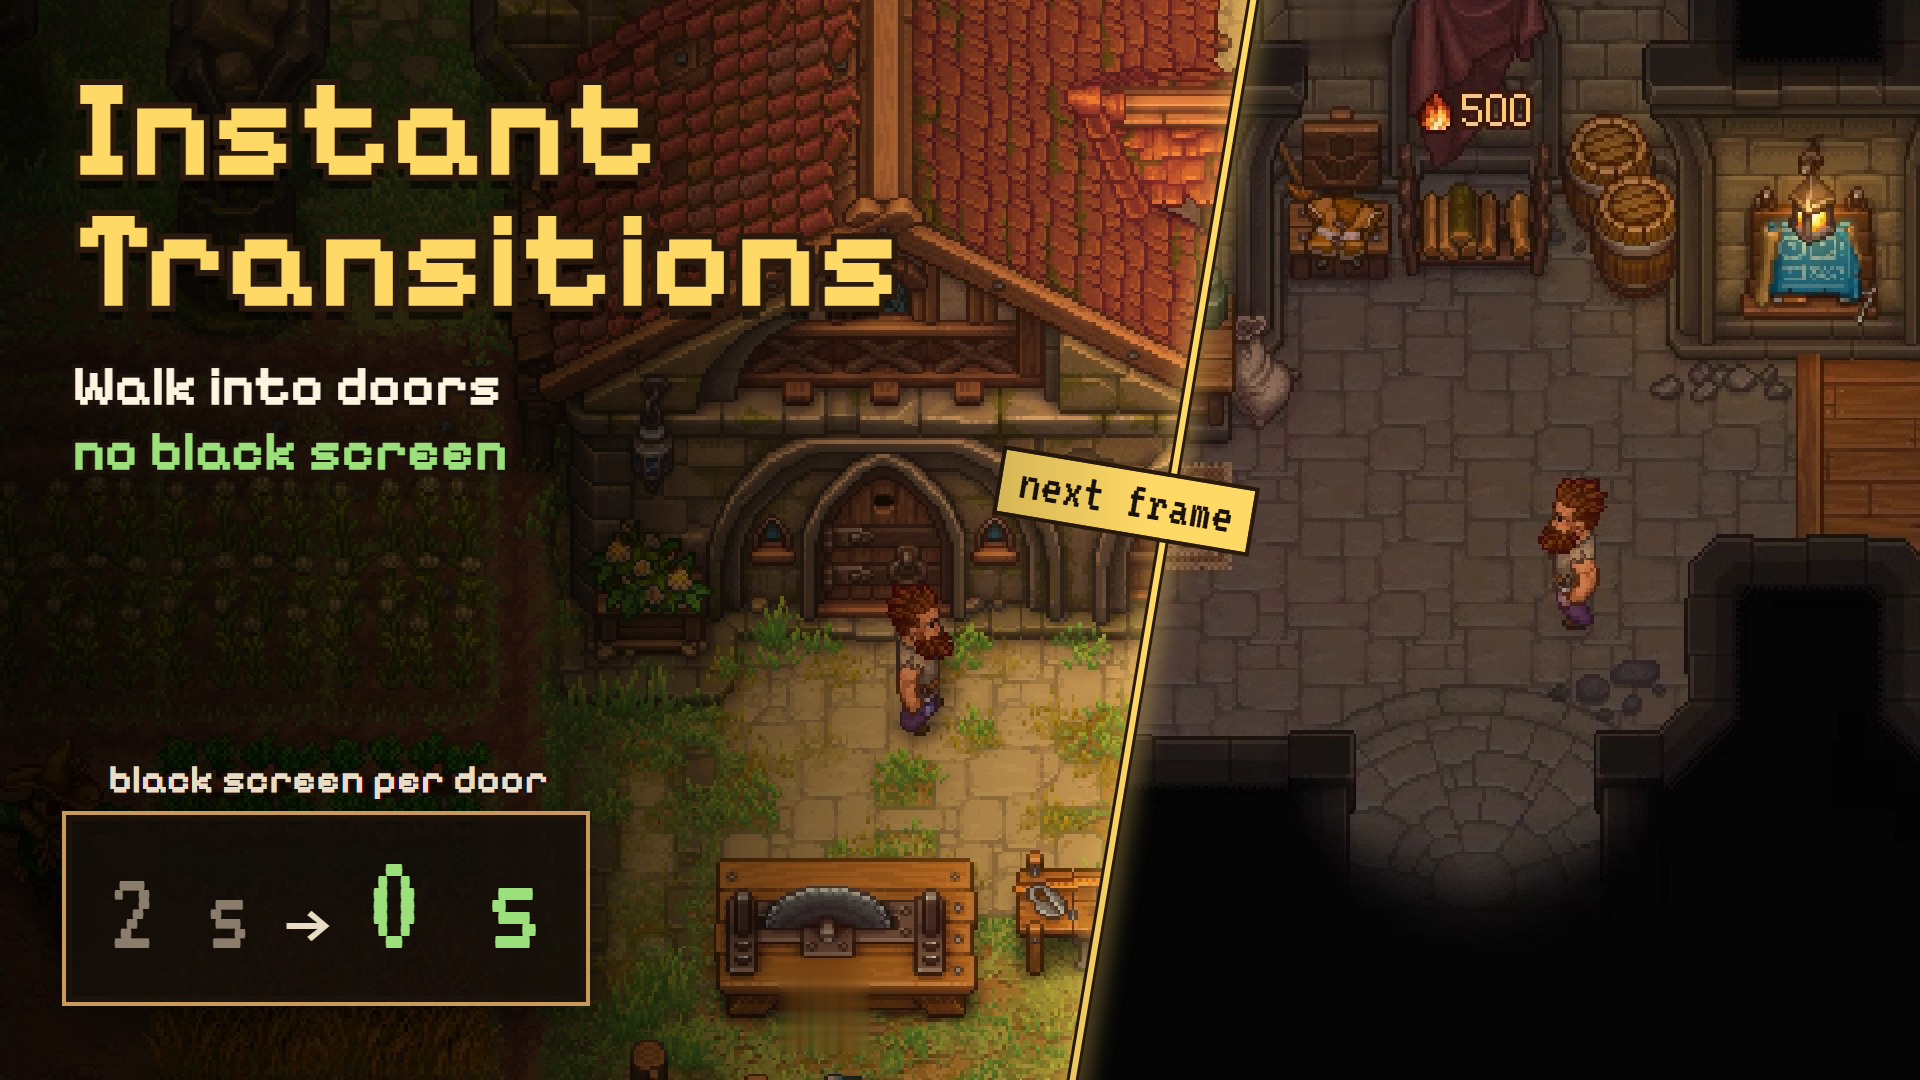
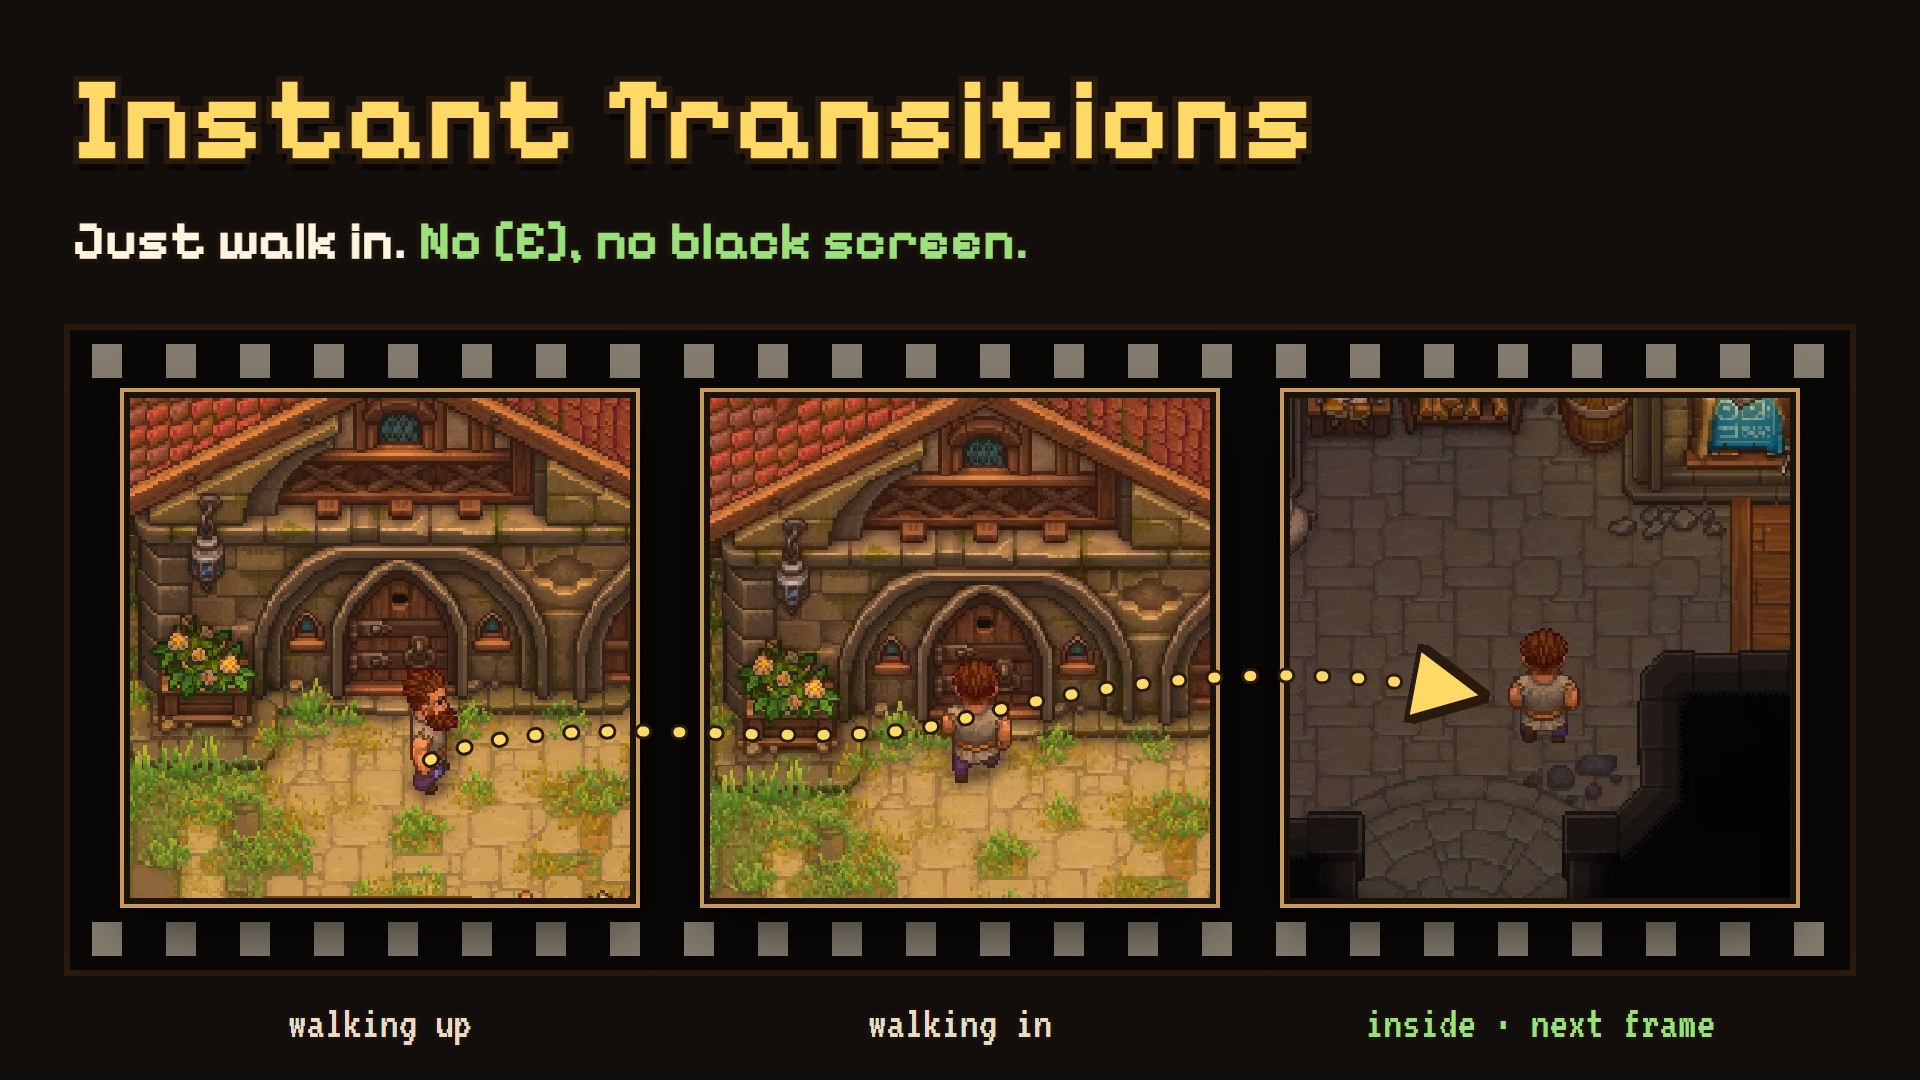
0.10.0: arrival frame log, final GIF (night, 20 fps) and film-strip thumbnail

diff --git a/docs/nexus/thumbnail/thumbnail.html b/docs/nexus/thumbnail/thumbnail.html
@@ -1,49 +1,30 @@
-<!doctype html>
-<html><head><meta charset="utf-8">
-<link href="https://fonts.googleapis.com/css2?family=Pixelify+Sans:wght@700&family=VT323&display=swap" rel="stylesheet">
+<!doctype html><html><head><meta charset="utf-8"><link href="https://fonts.googleapis.com/css2?family=Pixelify+Sans:wght@700&family=VT323&display=swap" rel="stylesheet"><style>
+html, body { margin:0; width:1920px; height:1080px; overflow:hidden; background:#120e0b; }
+.title { position:absolute; font-family:'Pixelify Sans', monospace; }
+.title h1 { margin:0; color:#ffd966; letter-spacing:2px;
+  text-shadow: 6px 0 #2a1a0e, -6px 0 #2a1a0e, 0 6px #2a1a0e, 0 -6px #2a1a0e, 6px 6px #2a1a0e, -6px 6px #2a1a0e, 6px -6px #2a1a0e, -6px -6px #2a1a0e, 0 12px 0 rgba(0,0,0,.55); }
+.title p { margin:18px 0 0; color:#fff4e0;
+  text-shadow: 4px 0 #1b120c, -4px 0 #1b120c, 0 4px #1b120c, 0 -4px #1b120c, 4px 4px #1b120c, -4px 4px #1b120c, 4px -4px #1b120c, -4px -4px #1b120c; }
+.title p b { color:#9be07a; }
+.cell { position:absolute; image-rendering:pixelated; background-size:cover; outline:6px solid #1b120c; box-shadow:0 0 0 10px #c89b5a, 0 24px 60px rgba(0,0,0,.7); }
+.cap { position:absolute; font-family:'VT323', monospace; font-size:46px; color:#e8dcc4; text-align:center;
+  text-shadow: 3px 0 #1b120c, -3px 0 #1b120c, 0 3px #1b120c, 0 -3px #1b120c; }
+svg { position:absolute; inset:0; overflow:visible; }
+</style><!-- Tira de película: llegando, entrando y ya adentro en el cuadro siguiente (cuadros del juego al 200 %) -->
 <style>
-  html, body { margin:0; width:1920px; height:1080px; overflow:hidden; background:#000; }
-  /* Afuera: el patio al 200 %, con el personaje llegando a la puerta de la casa */
-  .outside { position:absolute; inset:0; background:url('fuera.png') no-repeat; background-position:-40px 0; image-rendering:pixelated; }
-  /* Adentro, en el cuadro siguiente: el interior de la casa al 200 %, cortado en diagonal como un empalme de película */
-  .inside { position:absolute; inset:0; background:#0b0807 url('dentro.png') no-repeat; background-position:930px 0; image-rendering:pixelated;
-            clip-path: polygon(1250px 0, 1920px 0, 1920px 1080px, 1070px 1080px); }
-  .seam { position:absolute; left:1160px; top:-40px; width:6px; height:1160px; background:#ffd966;
-          transform: rotate(9.5deg); transform-origin: 50% 50%;
-          box-shadow: 0 0 0 3px #2a1a0e, 0 0 26px 6px rgba(255,217,102,.55); }
-  .tag { position:absolute; left:1000px; top:470px; font-family:'VT323', monospace; font-size:54px; color:#1b120c;
-         background:#ffd966; padding:2px 18px 6px; outline:4px solid #2a1a0e; transform: rotate(9.5deg); }
-  /* Del lado del título, oscuro para que se lea */
-  .fade { position:absolute; inset:0;
-          background:linear-gradient(90deg, rgba(0,0,0,.88) 0%, rgba(0,0,0,.72) 30%, rgba(0,0,0,.2) 50%, rgba(0,0,0,0) 60%); }
-  .title { position:absolute; left:72px; top:64px; font-family:'Pixelify Sans', monospace; }
-  .title h1 { margin:0; font-size:138px; line-height:.95; color:#ffd966; letter-spacing:2px;
-              text-shadow: 6px 0 #2a1a0e, -6px 0 #2a1a0e, 0 6px #2a1a0e, 0 -6px #2a1a0e,
-                           6px 6px #2a1a0e, -6px 6px #2a1a0e, 6px -6px #2a1a0e, -6px -6px #2a1a0e, 0 14px 0 rgba(0,0,0,.55); }
-  .title p { margin:28px 0 0; font-size:56px; line-height:1.15; color:#fff4e0;
-             text-shadow: 4px 0 #1b120c, -4px 0 #1b120c, 0 4px #1b120c, 0 -4px #1b120c, 4px 4px #1b120c, -4px 4px #1b120c, 4px -4px #1b120c, -4px -4px #1b120c; }
-  .title p b { color:#9be07a; }
-  .time { position:absolute; left:72px; bottom:84px; font-family:'Pixelify Sans', monospace; display:flex; align-items:baseline; gap:34px;
-          padding:22px 36px 26px; background:rgba(20,14,10,.84); outline:6px solid #1b120c; box-shadow:0 0 0 10px #c89b5a, 0 24px 60px rgba(0,0,0,.7); }
-  .time .label { position:absolute; left:36px; top:-66px; font-size:40px; color:#e8dcc4; white-space:nowrap;
-                 text-shadow: 3px 0 #1b120c, -3px 0 #1b120c, 0 3px #1b120c, 0 -3px #1b120c; }
-  .time .old, .time .new { font-family:'VT323', monospace; line-height:.8; }
-  .time .old { font-size:120px; color:#8a7d6c; }
-  .time .arrow { font-size:80px; color:#e8dcc4; }
-  .time .new { font-size:150px; color:#9be07a; }
-</style></head>
-<body>
-  <div class="outside"></div>
-  <div class="inside"></div>
-  <div class="seam"></div>
-  <div class="tag">next frame</div>
-  <div class="fade"></div>
-  <div class="title">
-    <h1>Instant<br>Transitions</h1>
-    <p>Walk into doors<br><b>no black screen</b></p>
-  </div>
-  <div class="time">
-    <span class="label">black screen per door</span>
-    <span class="old">2 s</span><span class="arrow">→</span><span class="new">0 s</span>
-  </div>
+.strip { position:absolute; left:70px; top:330px; width:1780px; height:640px; background:#0a0807; outline:6px solid #2a1a0e; }
+.holes { position:absolute; left:70px; width:1780px; height:34px; background: repeating-linear-gradient(90deg, transparent 0 22px, #e8dcc4 22px 52px, transparent 52px 74px); opacity:.55; }
+</style></head><body>
+<div class="title" style="left:72px; top:48px"><h1 style="font-size:118px">Instant Transitions</h1>
+<p style="font-size:54px">Just walk in. <b>No [E], no black screen.</b></p></div>
+<div class="strip"></div><div class="holes" style="top:344px"></div><div class="holes" style="top:922px"></div>
+<div class="cell" style="left:130px; top:398px; width:500px; height:500px; background-image:url('f-llegando.png')"></div>
+<div class="cell" style="left:710px; top:398px; width:500px; height:500px; background-image:url('f-puerta.png')"></div>
+<div class="cell" style="left:1290px; top:398px; width:500px; height:500px; background-image:url('f-adentro.png')"></div>
+<svg viewBox="0 0 1920 1080"><defs><marker id="m" markerWidth="8" markerHeight="8" refX="4" refY="4" orient="auto"><path d="M0,0 L8,4 L0,8 z" fill="#ffd966" stroke="#2a1a0e" stroke-width="1"/></marker></defs>
+<path d="M 430 760 C 560 700, 820 760, 960 720 S 1290 660, 1450 690" fill="none" stroke="#2a1a0e" stroke-width="16" stroke-linecap="round" stroke-dasharray="2 34"/>
+<path d="M 430 760 C 560 700, 820 760, 960 720 S 1290 660, 1450 690" fill="none" stroke="#ffd966" stroke-width="10" stroke-linecap="round" stroke-dasharray="2 34" marker-end="url(#m)"/></svg>
+<div class="cap" style="left:130px; top:1000px; width:500px">walking up</div>
+<div class="cap" style="left:710px; top:1000px; width:500px">walking in</div>
+<div class="cap" style="left:1290px; top:1000px; width:500px; color:#9be07a">inside · next frame</div>
 </body></html>

diff --git a/Settle.cs b/Settle.cs
@@ -1,0 +1,39 @@
+using UnityEngine;
+
+namespace InstantTransitions;
+
+// Medición para el log: cómo va el juego el segundo y medio después de llegar por una puerta. Al llegar, el juego
+// enciende lo que hay del otro lado y puede ir a tirones un rato; con la pantalla negra eso casi no se veía, con el
+// corte sí, así que cada puerta deja anotado cuántos cuadros salieron lentos.
+internal static class Settle
+{
+    private const float Window = 1.5f;
+    private static string label;
+    private static float from, worst;
+    private static int frames, slow;
+
+    internal static void Start(string what)
+    {
+        label = what;
+        from = Time.unscaledTime;
+        worst = 0f;
+        frames = slow = 0;
+    }
+
+    // Cada cuadro (DoorWatch.Update).
+    internal static void Tick()
+    {
+        if (label == null)
+            return;
+        float dt = Time.unscaledDeltaTime;
+        frames++;
+        if (dt > 0.034f)
+            slow++;
+        if (dt > worst)
+            worst = dt;
+        if (Time.unscaledTime - from < Window)
+            return;
+        Plugin.Log.LogInfo($"[Arrival] {label}: {frames} frames in the next {Window:0.0} s, {slow} slower than 34 ms, worst {worst * 1000f:0} ms");
+        label = null;
+    }
+}

diff --git a/DoorWatch.cs b/DoorWatch.cs
@@ -197,6 +197,7 @@ internal class DoorWatch : MonoBehaviour
             Plugin.Log.LogDebug("Cut: " + e.Message);
         }
         DoorPrewarm.Tick(); // atrapa lo suyo
+        Settle.Tick();
         try
         {
             WatchLoading();
@@ -419,6 +420,7 @@ internal class DoorWatch : MonoBehaviour
                            $"{Seconds(d.start, end):0.00} s = {parts} · longest frame {d.longestFrame:0.00} s ({d.slowFrames} over 0.1 s) · " +
                            $"GCs {GC.CollectionCount(0) - d.gcBefore} · managed {d.managedBefore} -> {ManagedMB()} MB · Unity {d.unityBefore} -> {UnityMB()} MB · " +
                            $"game process {d.processBefore} -> {ProcessMB()} MB");
+        Settle.Start($"{d.fromZone ?? "?"} -> {toZone ?? "?"} (through black)");
     }
 
     // Opacidad de la cortina negra del juego (0 = se ve el juego, 1 = negro). La cortina se toma de la lista de

diff --git a/Cut.cs b/Cut.cs
@@ -112,6 +112,7 @@ internal static class Cut
                                $"{(cameraLate ? "; the camera still wasn't on you after 0.4 s" : "")}), then cut · " +
                                $"managed {DoorWatch.ManagedMB()} MB · Unity {DoorWatch.UnityMB()} MB · " +
                                $"game process {DoorWatch.ProcessMB()} MB");
+            Settle.Start($"{fromZone ?? "?"} -> {MainGame.PlayerData?.CurrentWorldZoneData?.id ?? "?"} (cut)");
         }
         catch (Exception e)
         {
